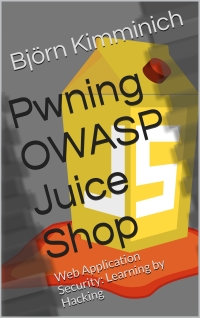
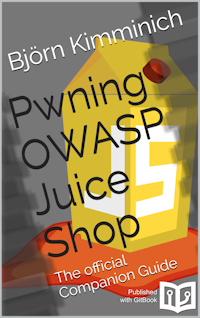
Rephrase subtitle (and adopt cover)

diff --git a/README.md b/README.md
@@ -4,8 +4,6 @@ Written by [Björn Kimminich](http://kimminich.de)
 
 ![OWASP Juice Shop logo](introduction/img/juice-shop_logo.png)
 
-## Web Application Security: Learning by Hacking
-
 This is the official companion guide to the __OWASP Juice Shop__
 application. Being a web application with well over 30 intended security
 vulnerabilities, the OWASP Juice Shop is supposed to be the opposite of
